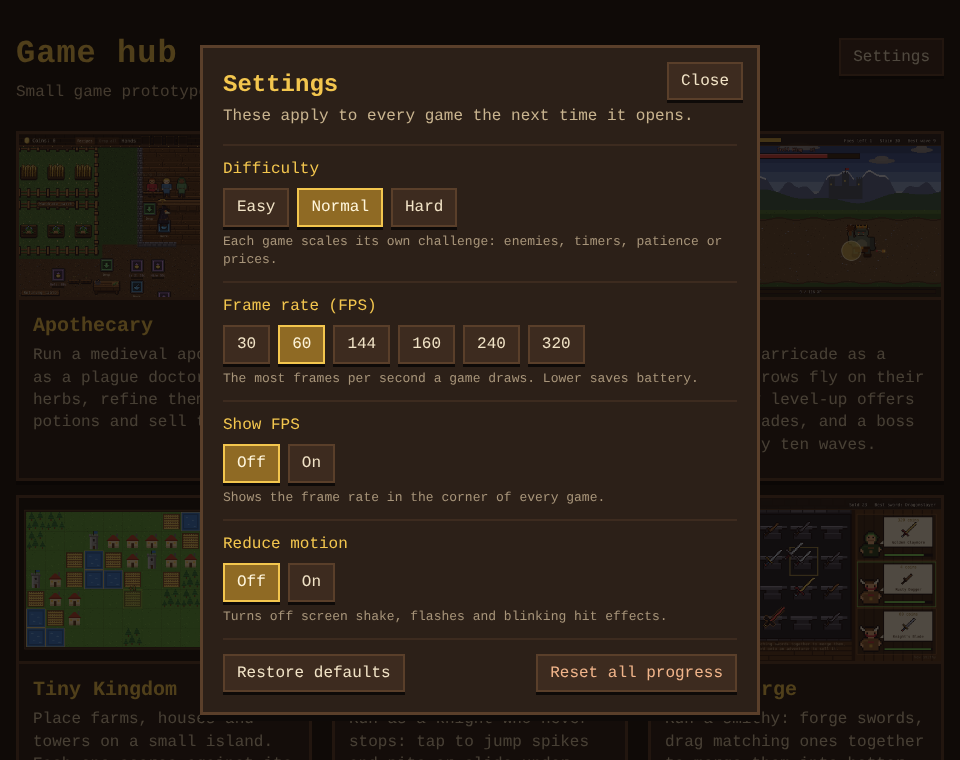
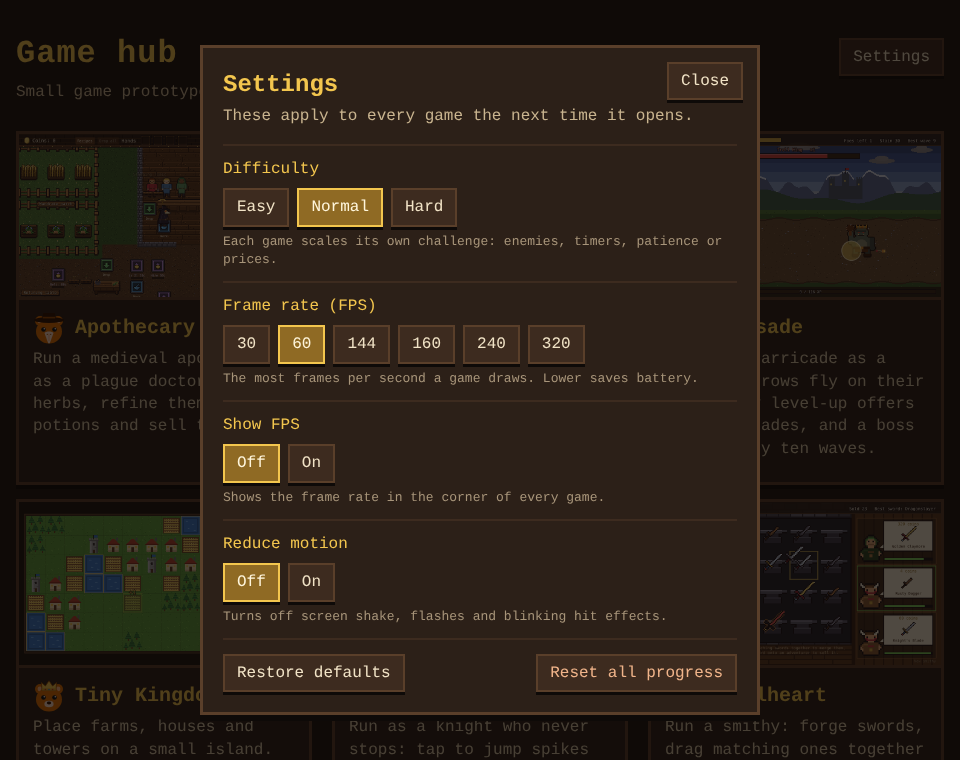
Hub settings: new game names in the README, refreshed hub screenshots
Requested by Chriszly

Created with Claude Opus 5.5 (low)

diff --git a/README.md b/README.md
@@ -32,11 +32,11 @@ The hub's **Settings** button opens the settings every game shares. They are sav
   | Deadline | zombies have 25% less health | zombies have 30% more health |
   | Palisade | foes have 25% less health | foes have 30% more health |
   | Tiny Kingdom | round goals 20% lower | round goals 20% higher |
-  | Rogue Runner | 5 hearts | 2 hearts |
-  | Merge Forge | adventurers wait 50% longer | adventurers wait 30% less |
-  | Pirate Raid | enemy ships have 25% less health | enemy ships have 30% more health |
-  | Potion Puzzle | 5 more moves per order | 3 fewer moves per order |
-  | Delve | foes have 25% less health | foes have 30% more health |
+  | Hotfoot | 5 hearts | 2 hearts |
+  | Anvilheart | adventurers wait 50% longer | adventurers wait 30% less |
+  | Broadside | enemy ships have 25% less health | enemy ships have 30% more health |
+  | TinctureTinker | 5 more moves per order | 3 fewer moves per order |
+  | Catacomb | foes have 25% less health | foes have 30% more health |
 
 - **Frame rate (FPS)**: the most frames per second a game draws, 30 to 320 (60 by default).
 - **Show FPS**: a readout of the frame rate in each game's corner.
